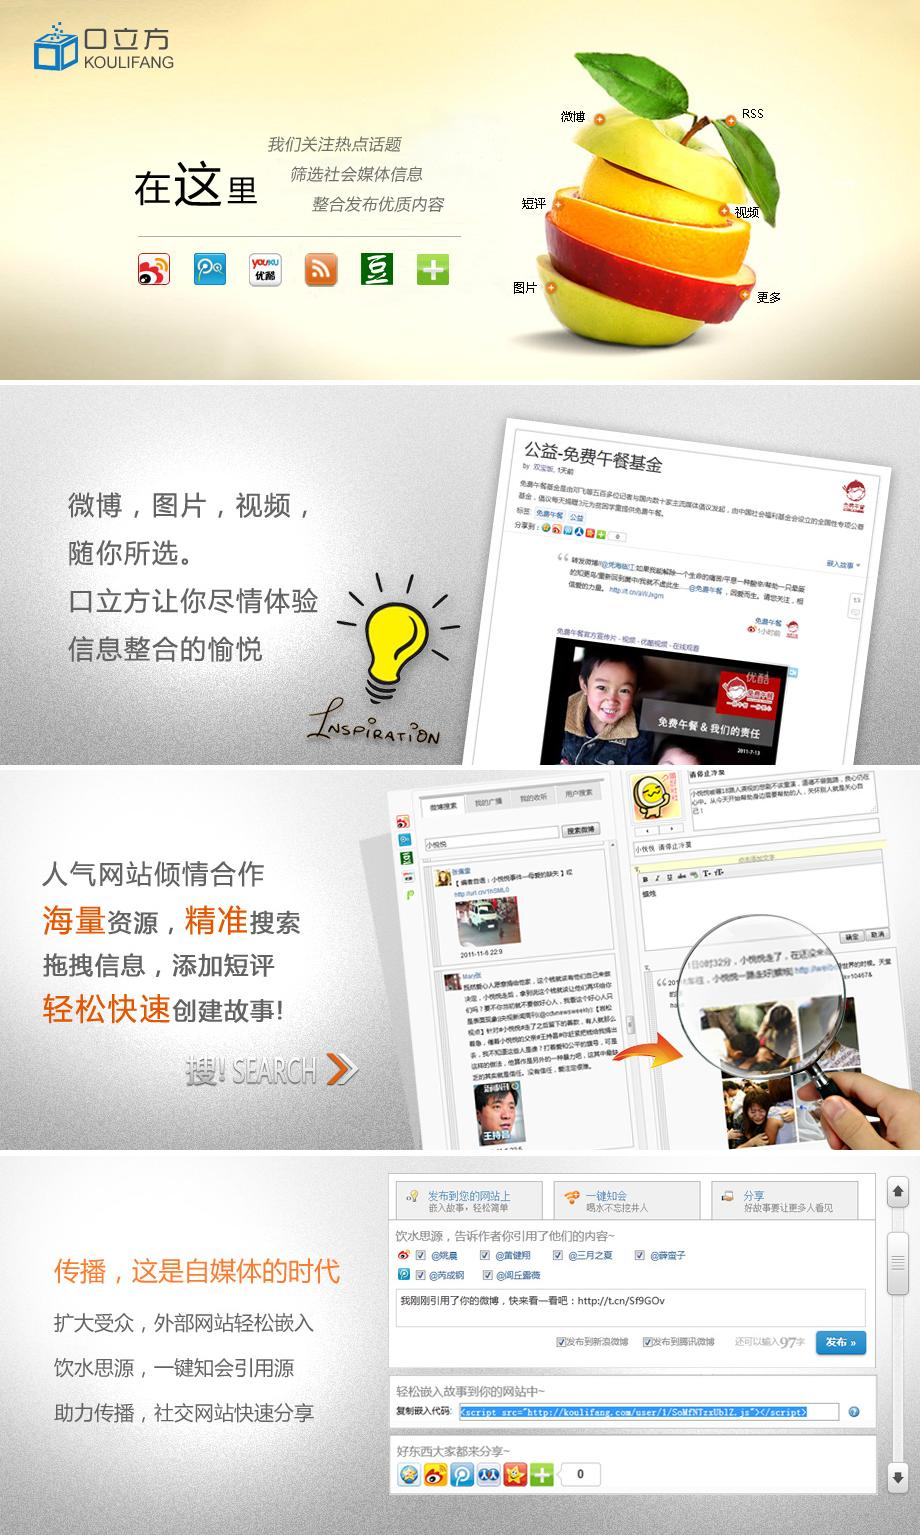
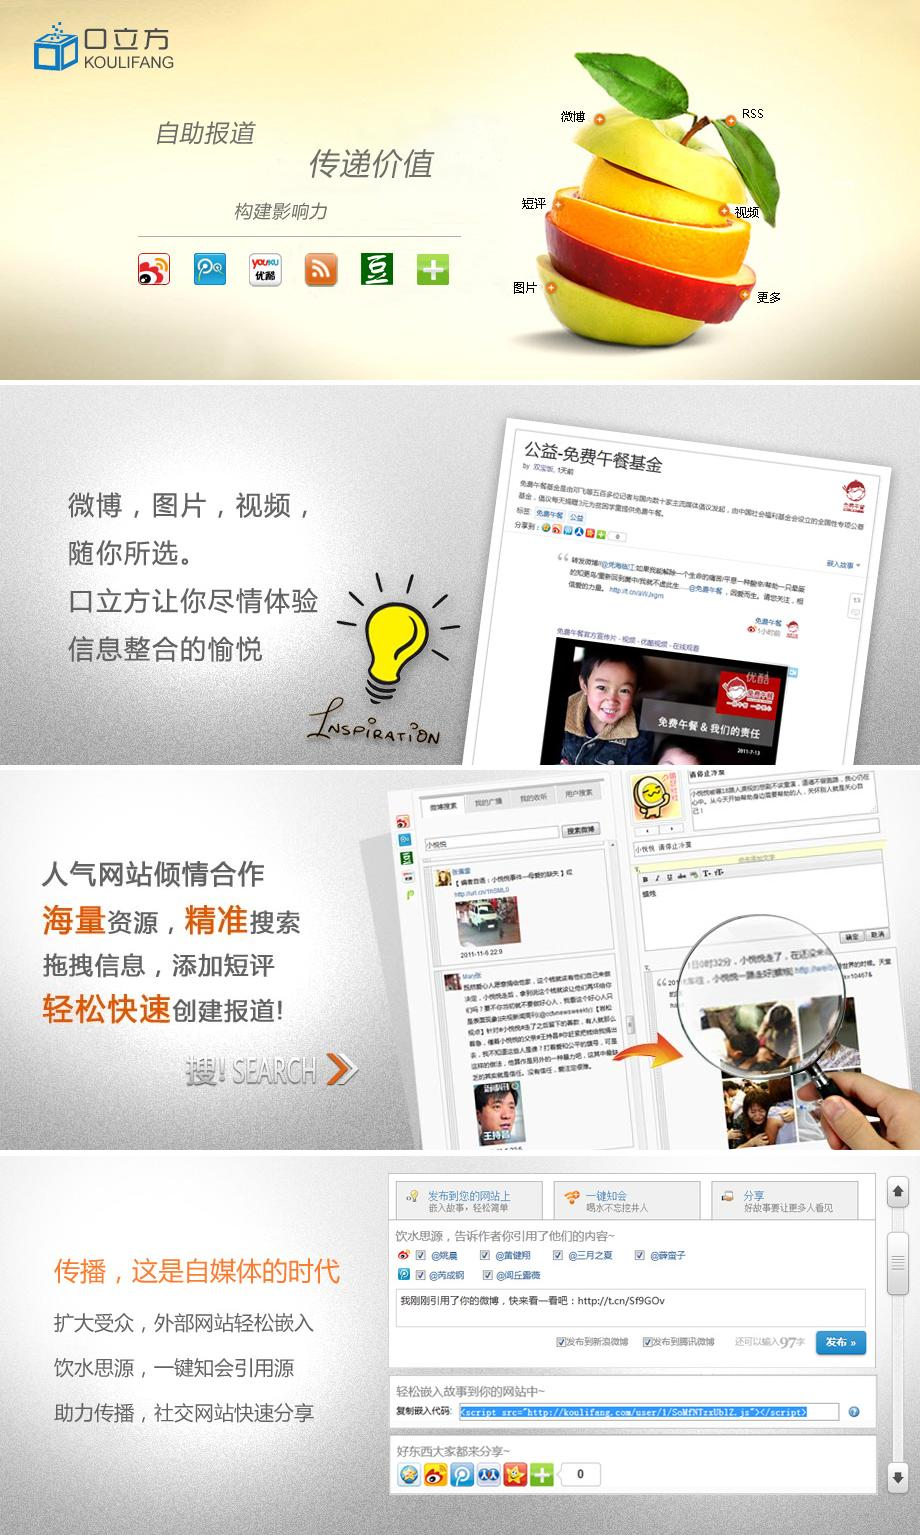
update slide img

diff --git a/index.php b/index.php
@@ -1,5 +1,5 @@
 <?php
-$html_title = "口立方 - 简单有趣的自助式报道，帮助你传播信息，构建影响力";
+$html_title = "口立方 - 自助报道，传递价值，构建影响力";
 include $_SERVER['DOCUMENT_ROOT'].'/global.php'; 
 include $_SERVER['DOCUMENT_ROOT'].'/member/tagoperation.php';
 ?>
@@ -8,8 +8,8 @@ include $_SERVER['DOCUMENT_ROOT'].'/member/tagoperation.php';
   <head>
 	<meta http-equiv="Content-Type" content="text/html; charset=utf-8" />
     <meta http-equiv="X-UA-Compatible" content="IE=edge,chrome=1" />
-	<meta name="keywords" content="口立方, 新媒体, 社会媒体, 社会媒体故事社区, 整合社会媒体, 聚合社会媒体, 热点话题, koulifang.com"/>
-    <meta name="description" content="整合社会媒体, 用社会媒体讲故事" />
+	<meta name="keywords" content="口立方, 新媒体, 自媒体, 自助报道, 社会化媒体, 社会化媒体整合, 社会化媒体聚合, 报道热点话题, koulifang.com"/>
+    <meta name="description" content="口立方是新颖的自助报道媒体, 帮助用户筛选整合社会化媒体信息, 创作分享优质内容" />
 	<title><?php print $html_title; ?></title>
 	<link type='text/css' rel='stylesheet' href="/css/layout.css" />
 	<link type="image/ico" rel="shortcut icon"  href="/img/favicon.ico" />

diff --git a/tour.php b/tour.php
@@ -6,7 +6,7 @@ require  $_SERVER['DOCUMENT_ROOT']."/include/header.php";
 <div class="inner">
 <div id='tour_wrapper'>
   <h1 id='tour_title'><a class='float_r large green awesome' href='/accounts/source'>开始使用 &raquo;</a>欢迎来到口立方</h1>
-  <h3 id='tour_sub'>简单有趣的自助式报道，帮助你传播信息，构建影响力</h3>  
+  <h3 id='tour_sub'>自助报道，传递价值，构建影响力</h3>  
   <div class='tour_section'>
     <img class='float_l' src='img/tour1.png' />
 	<h2>新颖的讲述方式</h2>
@@ -19,7 +19,7 @@ require  $_SERVER['DOCUMENT_ROOT']."/include/header.php";
   </div>
   <div class='tour_section'>
     <img class='float_l' src='img/tour3.png' />
-	<h2>自助式报道，简单快速</h2>
+	<h2>自助报道，简单快速</h2>
 	<p>左栏是信息板，可以获取微博，图片，视频，RSS等报道素材，右栏是编辑区。简单的拖放操作你就能引用海量的社会媒体信息，润色你的报道，发布，就这么简单。</p>
   </div>
   <div class='tour_section'>
